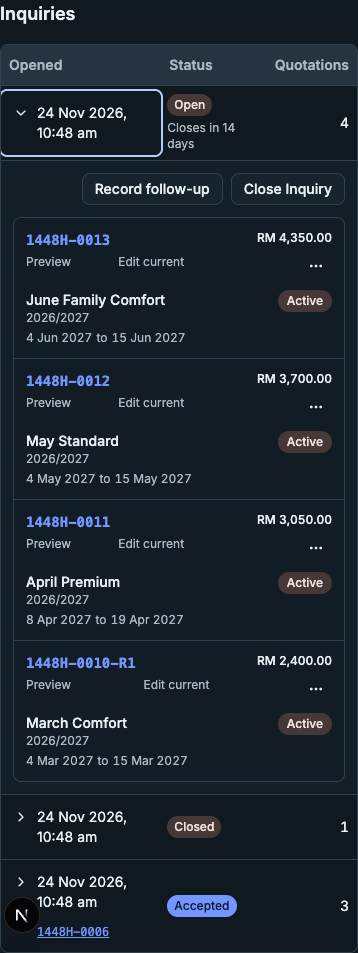
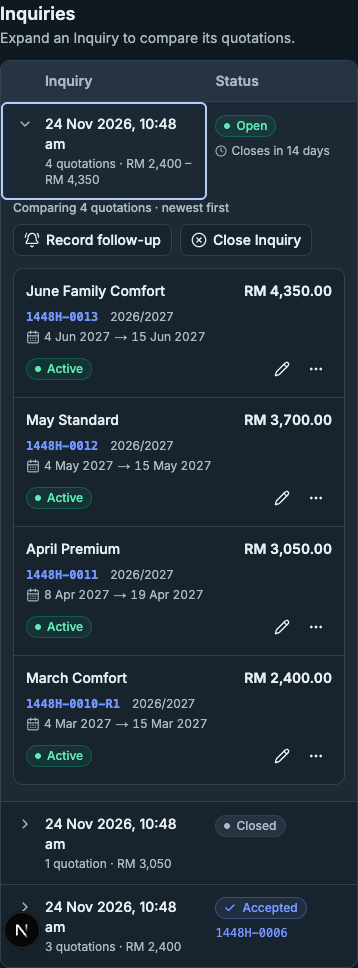
test(inquiries): record polished Inquiry table evidence

diff --git a/docs/evidence/inquiry-quotation-list/README.md b/docs/evidence/inquiry-quotation-list/README.md
@@ -1,11 +1,11 @@
-# Expanded Inquiry quotation list
+# Inquiry table and quotation list
 
-Tested `76b887d8f8c886247d3ea45621632e1c83500655` in Chromium at `http://localhost:3556` with synthetic records and a disposable Convex backend.
+Tested `85a48e18754df2eda80aecb3817702e222629d1f` in Chromium at `http://localhost:3556` with synthetic records and a disposable Convex backend.
 
-The client page rendered one Inquiry table. Enter expanded the open Inquiry and displayed all four quotations as list items in creation order, newest first. Space collapsed it. The closed Inquiry displayed its one quotation, and following **View Inquiry** from the accepted saved revision displayed all three quotations in that Inquiry.
+The client page renders one Inquiry table. Each row shows when the Inquiry opened, how many quotations it holds, a colour-coded status pill (Open with its countdown, Closed, or Accepted with the winning reference), and its value: the price range of active quotations, or the accepted total. Expanding a row lists every quotation, newest first. Each item shows the package, reference, package year, travel dates, status, amount, and, for active quotations, edit and action-menu buttons. The accepted quotation is highlighted, and closed quotations are muted with their closure reason.
 
-Active quotations offered **Edit current** and the quotation action menu. The review action opened the right saved terms and kept acceptance disabled until confirmation. The closed quotation had no edit link. The checks fit at 320, 390, and 1440 px with zero horizontal overflow or browser errors.
+On narrow screens the value column collapses into the row summary. The checks fit at 320, 390, and 1440 px in light and dark themes, with zero horizontal overflow or browser errors. Keyboard Enter and Space toggle a row, and the accept review dialog kept acceptance disabled until confirmation.
 
-[Desktop](desktop.png) · [Mobile](mobile.png)
+[Open, desktop](desktop.png) · [Open, mobile](mobile.png) · [Accepted, light](accepted-light.png) · [Closed, dark](closed-dark.png)
 
-TypeScript, scoped ESLint, and all 31 focused tests passed. The test browser closed. The local demo remains running for review.
+TypeScript, scoped ESLint, and all 31 focused tests passed.
